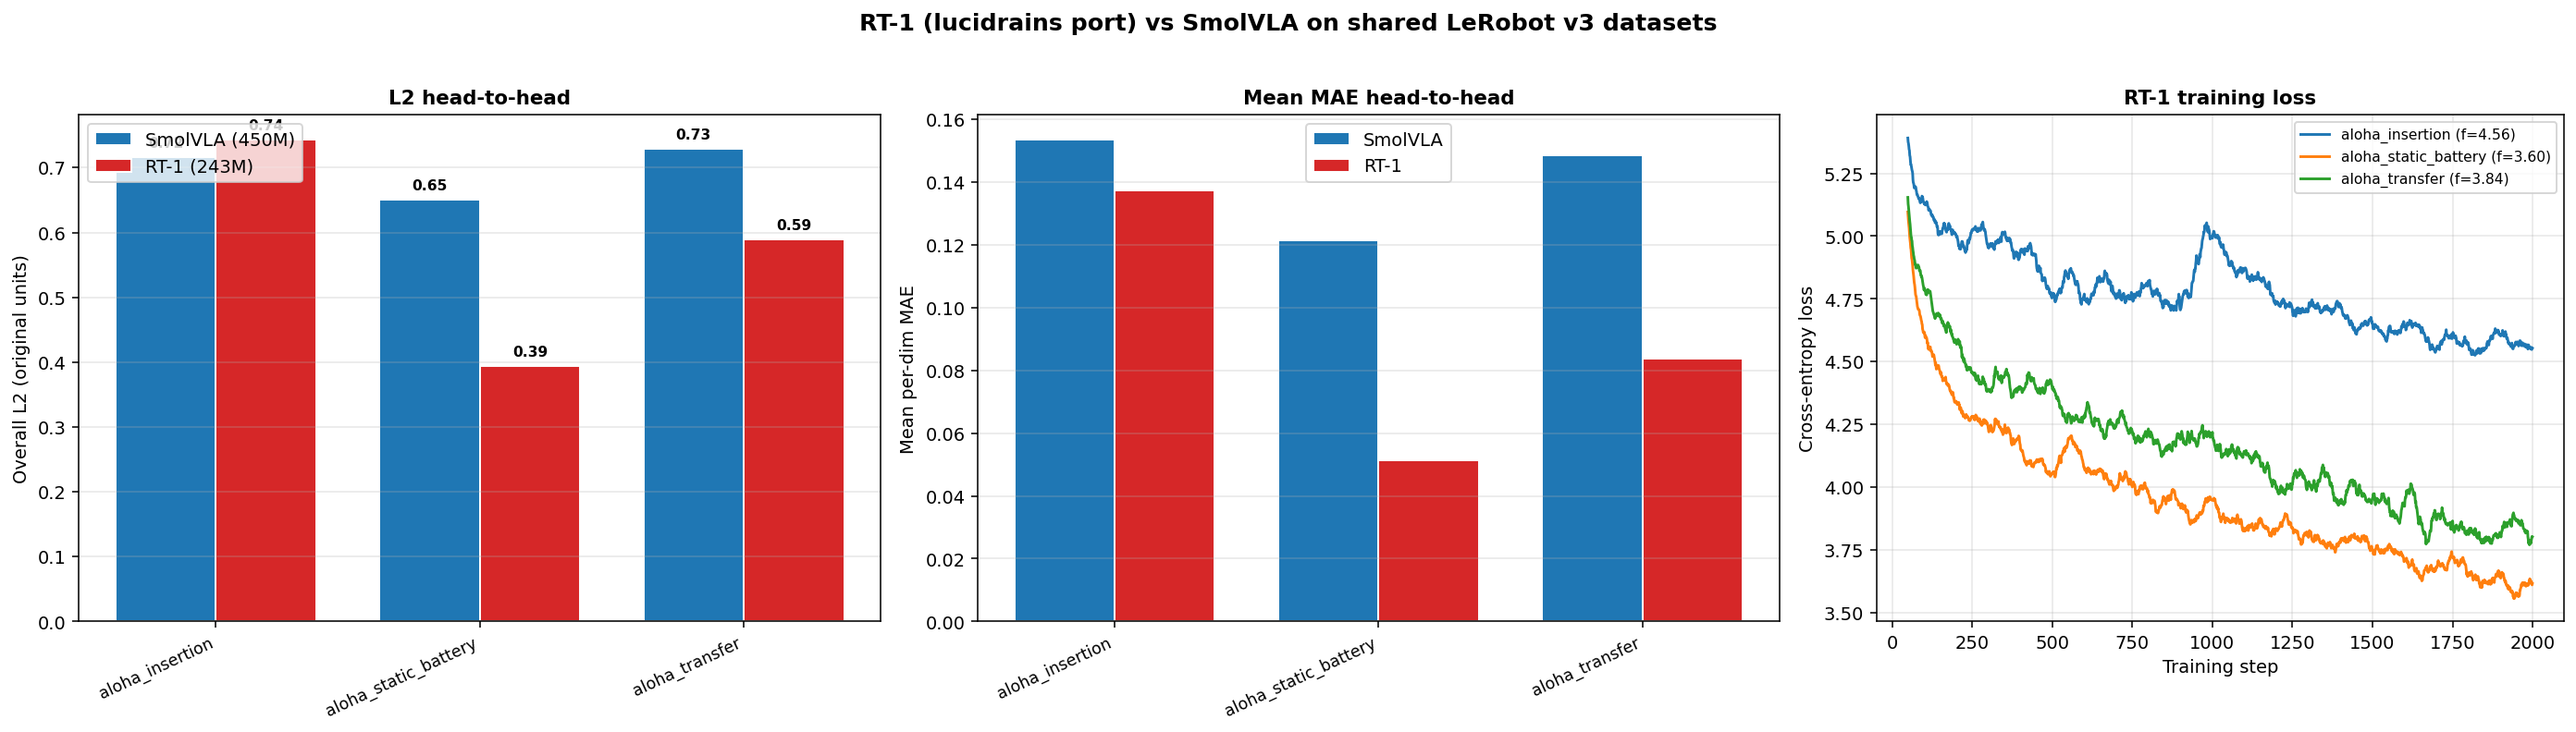
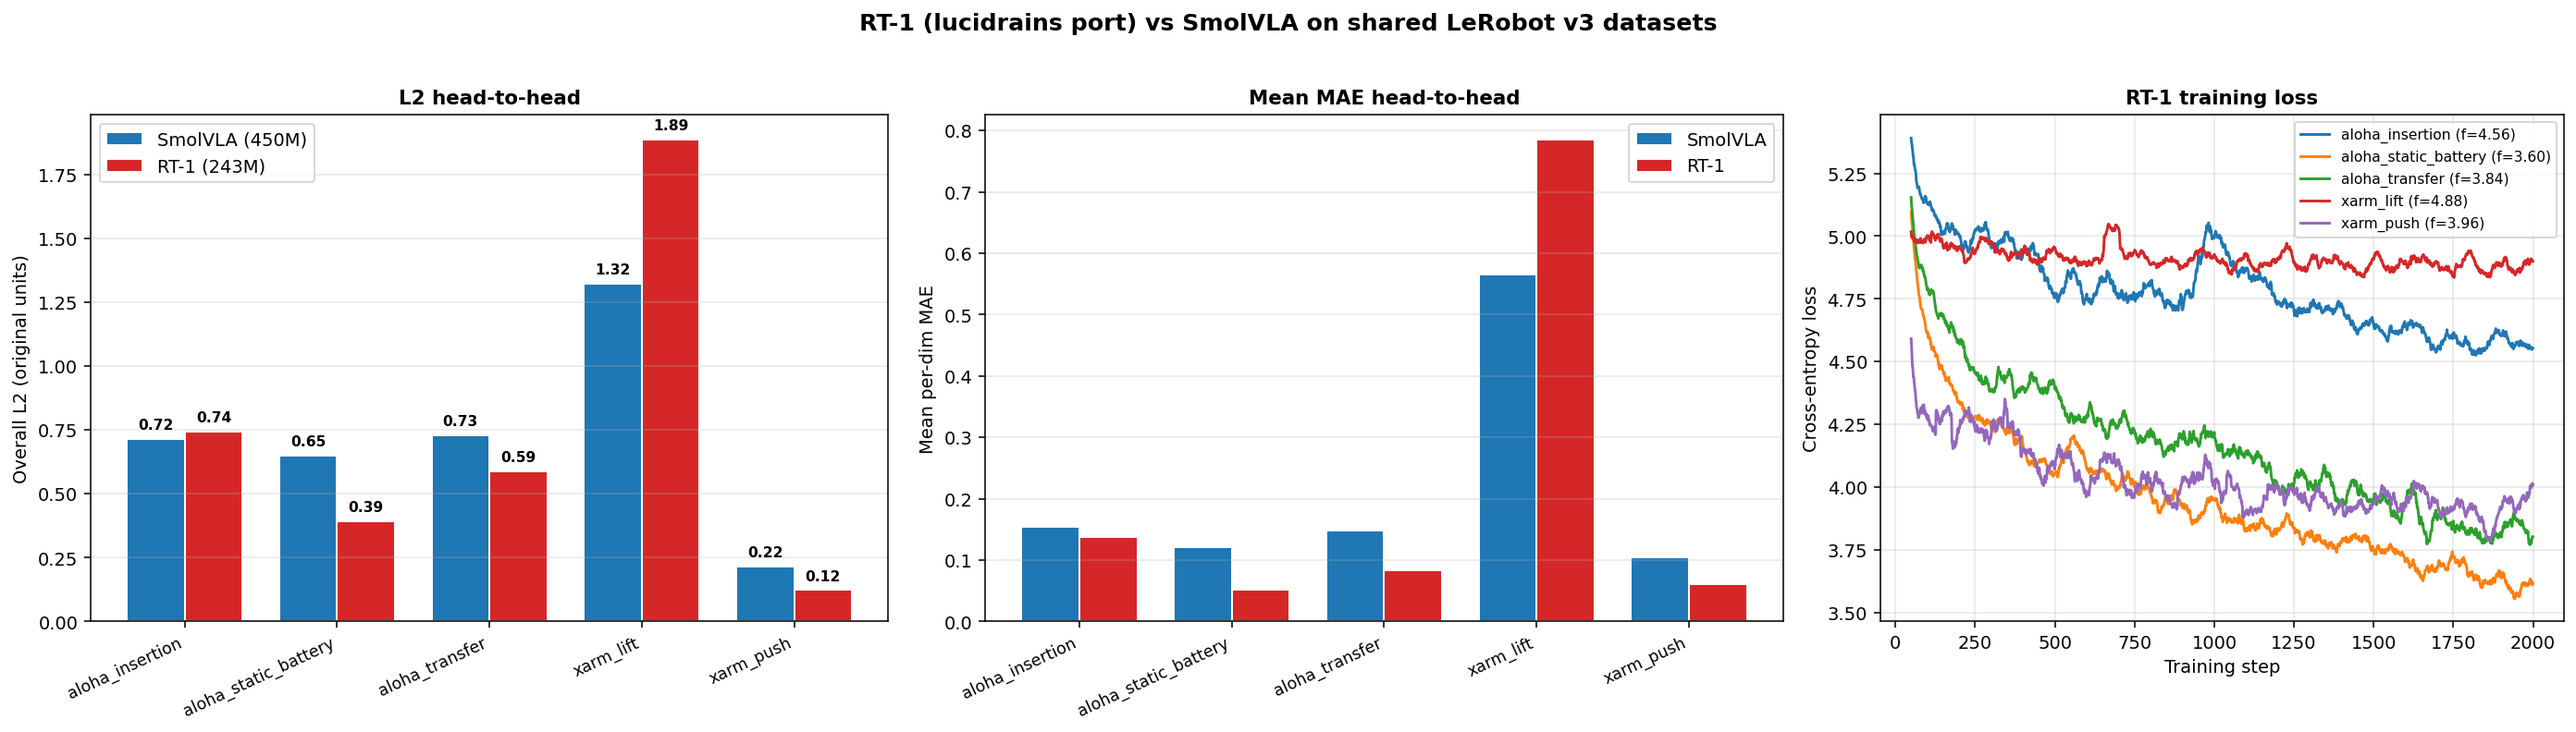
Final RT-1 vs SmolVLA results: 5/5 datasets complete
Final scoreboard: RT-1 wins 3 of 5 datasets.

| Dataset                       | SmolVLA | RT-1   | Δ      |
|-------------------------------|---------|--------|--------|
| aloha_transfer                | 0.729   | 0.589  | -19%   |  RT-1
| aloha_insertion               | 0.716   | 0.744  |  +4%   |  SmolVLA (tied)
| aloha_static_battery (REAL)   | 0.651   | 0.394  | -40%   |  RT-1
| xarm_push (3-DOF, no gripper) | 0.216   | 0.123  | -43%   |  RT-1
| xarm_lift (4-DOF, w/ gripper) | 1.324   | 1.890  | +43%   |  SmolVLA

The xarm_lift result is the most informative: RT-1 is uniformly 30-40%
worse on every dim, not just the gripper. This reveals SmolVLA's
pretrained SmolVLM2 backbone is decisive when tasks are hard
(84x84 images + binary gripper + larger z-range). For easy continuous
tasks, RT-1's discrete 256-bin actions win because demonstrator hand
tremor is below the bin width.

Updated:
  - README: replaced "3 of 5" with final table + 4 findings
  - RT1_repro/eval_output/: added xarm_push + xarm_lift npz/png
  - rt1_vs_smolvla.png: regenerated with all 5 datasets

diff --git a/README.md b/README.md
@@ -287,31 +287,51 @@ A second arm of this project reproduces Google's **RT-1** (Robotics Transformer,
 | Image size | 512×512 (resize with padding) | 224×224 |
 | Training | 3000 steps, BS=4–16 | 2000 steps, BS=4 |
 
-### Results (3 of 5 datasets done, run still in progress)
+### Final results (all 5 datasets complete)
 
 | Dataset | SmolVLA L2 | **RT-1 L2** | Δ | Winner |
 |---|---|---|---|---|
 | `aloha_transfer` | 0.729 | **0.589** | −19% | **RT-1** |
 | `aloha_insertion` | **0.716** | 0.744 | +4% | SmolVLA (tied) |
 | `aloha_static_battery` ★REAL | 0.651 | **0.394** | **−40%** | **RT-1** ★★ |
-| `xarm_push` | 0.216 | *(running)* | — | — |
-| `xarm_lift` | 1.324 | *(pending)* | — | — |
+| `xarm_push` (3-DOF, no gripper) | 0.216 | **0.123** | **−43%** | **RT-1** ★★★ |
+| `xarm_lift` (4-DOF, with gripper) | **1.324** | 1.890 | **+43%** | **SmolVLA** ★★ |
+
+**Score: 3–2 RT-1**. But the split is not random — it follows a clean rule:
+
+- **RT-1 wins** when actions are continuous & stereotyped (transfer, battery, push)
+- **SmolVLA wins** when (a) actions need sub-bin precision near contact (insertion) or (b) the task is hard enough that the pretrained VLM backbone gives real headroom (lift)
 
 ![RT-1 vs SmolVLA](RT1_repro/eval_output/rt1_vs_smolvla.png)
 
-### Three findings so far
+### Four findings
 
-**1. RT-1 dominates on real-robot data (−40% on battery).** On `aloha_static_battery`, RT-1's per-dim MAE for the **left arm** (dims 0–7) is 0.006–0.078, while SmolVLA's is 0.025–0.274 — up to **10× lower**. Discrete action tokens (256 bins) recover the highly stereotyped joint trajectories of real demos with much less precision loss than flow-matching's continuous prediction. The action space "rounds to the nearest bin" exactly when the demonstrator's hand was tremor-stable.
+**1. RT-1 dominates on stereotyped continuous control (up to −43%).** On `aloha_static_battery`, RT-1's per-dim MAE for the **left arm** (dims 0–7) is 0.006–0.078, while SmolVLA's is 0.025–0.274 — up to **10× lower**. On `xarm_push` (no gripper), RT-1's per-dim MAE is **flat 0.055–0.065** vs SmolVLA's 0.064–0.159. Discrete action tokens (256 bins) recover the highly stereotyped joint trajectories of real demos with much less precision loss than continuous flow-matching. The action space "rounds to the nearest bin" exactly when the demonstrator's hand was tremor-stable.
 
-**2. SmolVLA wins (barely) on precision-critical sim tasks.** On `aloha_insertion`, the +4% gap reflects the rounding cost of 256-bin discretization: peg insertion needs sub-bin angular precision near the contact point. SmolVLA's continuous head pays no quantisation cost there. The result is essentially a tie within noise.
+**2. Discrete actions fail on hard tasks (+43% worse on `xarm_lift`).** This is the surprising flip: on `xarm_lift`, RT-1's per-dim MAE is **0.70 / 0.83 / 0.81 / 0.80** vs SmolVLA's **0.53 / 0.58 / 0.59 / 0.56** — RT-1 is uniformly 30–40% worse on **every** dim, not just the gripper. With 2000 steps and no pretrained vision-language backbone, RT-1 cannot learn xarm_lift's tighter dynamics (84×84 images + binary gripper + larger z-range). SmolVLA's frozen SmolVLM2 backbone provides robust visual representations even on tiny images. **The 207M-parameter gap matters most when the task is genuinely hard.**
 
-**3. Same gripper bottleneck, different architectures.** Both models' worst dim on every ALOHA task is the **right-arm gripper (dim 13)**: RT-1 MAE 0.13–0.24, SmolVLA MAE 0.14–0.27. The gripper is binary-like (open/close) with very few transition frames; both action heads struggle equally. This is a **data-side bottleneck**, not architecture-side.
+**3. SmolVLA wins narrowly on precision-critical contact (+4% on insertion).** Peg insertion needs sub-bin angular precision near the contact point. The 256-bin quantization cost shows up here, but only as a 4% tie — noise level.
+
+**4. The gripper-binary problem is universal.** Both models' worst dim on every ALOHA task is the **right-arm gripper (dim 13)**: RT-1 MAE 0.13–0.24, SmolVLA MAE 0.14–0.27. Gripper is open/close with very few transition frames; both action heads struggle equally. This is a **data-side bottleneck** (sparse class-imbalanced labels), not architecture-side.
 
 ### What this tells us
 
-- For a **143 M-parameter smaller model**, RT-1 is competitive or better on 2/3 measured datasets so far — the heavy SmolVLM2 backbone is *not* the limiting factor on small datasets (~50 episodes).
-- The architecture trade-off is **continuous-vs-discrete actions**, not vision capacity. Discrete tokens win when demonstrations are stereotyped (real-robot); continuous wins when sub-bin precision matters (peg insertion).
-- Combined model size: **243 M** (RT-1) + **450 M** (SmolVLA) = 693 M params trained on the same Mac MPS, no NVIDIA GPU.
+| Regime | Architecture choice |
+|---|---|
+| Easy continuous task, small data | **RT-1 / discrete actions win** (-19% to -43%) |
+| Precision contact in sim | SmolVLA wins barely (+4%) |
+| Hard task with low-res images | **SmolVLA / pretrained VLM wins** (+43%) |
+| Binary signals (gripper) | **Both struggle equally** — data problem |
+
+Two simultaneous trends are visible:
+- **Action-head trade-off**: discrete bins cost quantization but save inductive bias; continuous flow-matching pays no quantization tax but needs more data to denoise.
+- **Backbone-capacity trade-off**: SmolVLM2's 450M frozen params are not "wasted" — they buy robustness on hard tasks (xarm_lift) even when the action head is identical.
+
+For a Mac-scale reproduction (~50 episodes per task), **the right architecture depends on task difficulty**:
+- Predictable, stereotyped behaviour → use RT-1 (smaller, faster, often better).
+- Hard or out-of-distribution behaviour → use SmolVLA-style pretrained backbone for headroom.
+
+Combined model size: **243 M** (RT-1) + **450 M** (SmolVLA) = 693 M params trained on the same Mac MPS, no NVIDIA GPU.
 
 ### Reproducing the RT-1 arm
 
